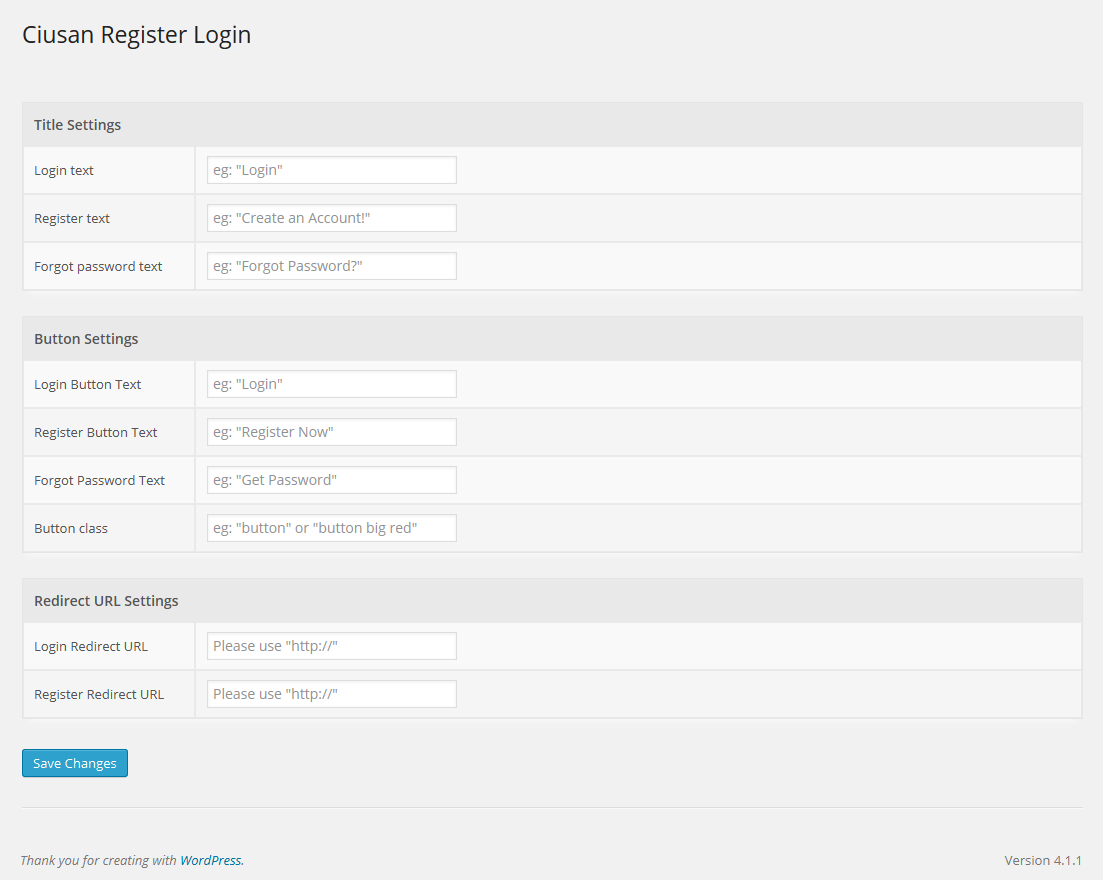
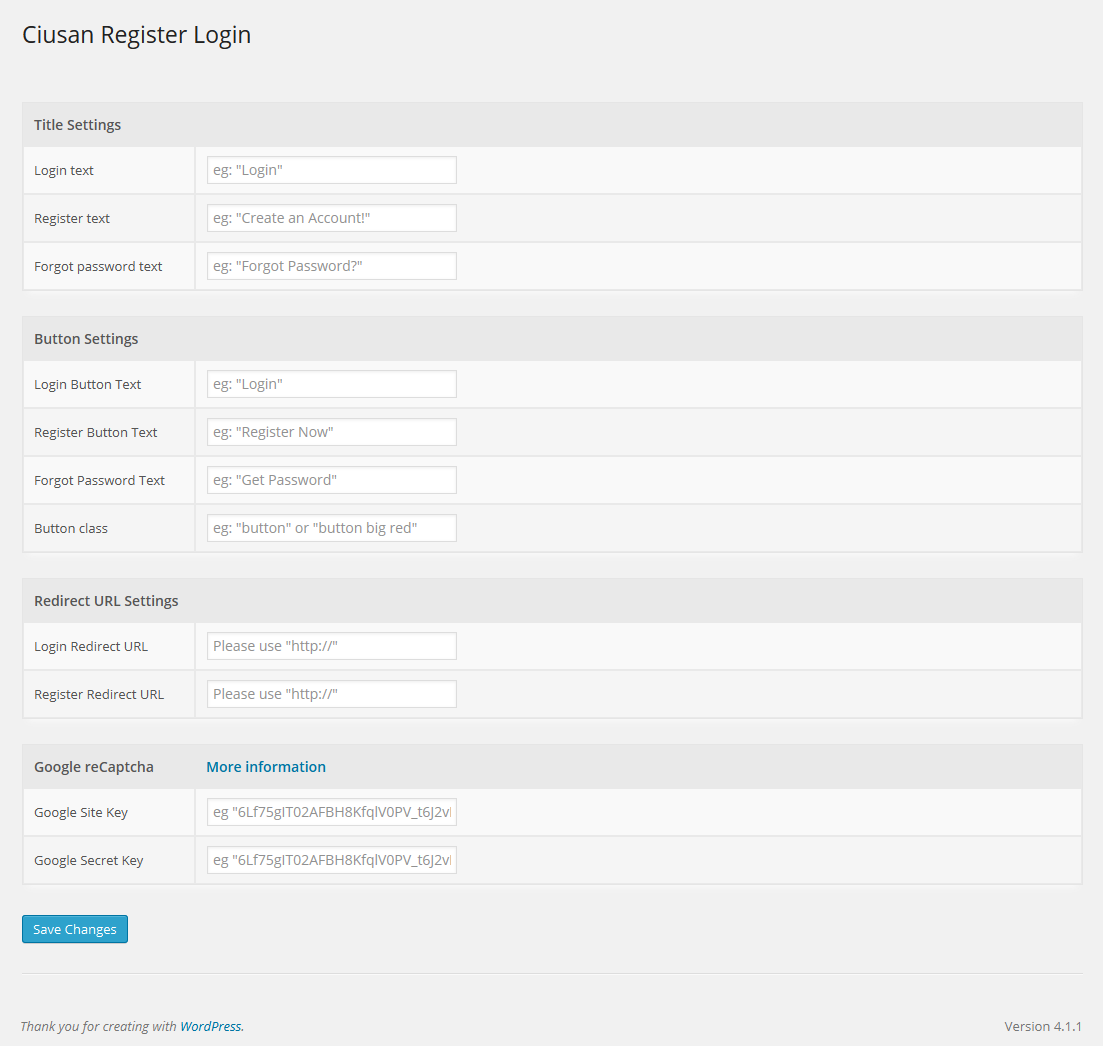
updated
git-svn-id: https://plugins.svn.wordpress.org/ciusan-register-login/trunk@1106388 b8457f37-d9ea-0310-8a92-e5e31aec5664

diff --git a/assets/css/ciusan-register-login.css b/assets/css/ciusan-register-login.css
@@ -1,8 +1,8 @@
-form.ajax-auth{
+form.crl-ajax-auth{
     display:none;
     z-index:999999;
 	position:fixed;
-    top:50px;
+    top:25px;
 	left:50%;
 	width:350px;
 	margin-left:-200px;
@@ -14,41 +14,41 @@ form.ajax-auth{
     color:#878787;
     font-size:11px;
 }
-.ajax-auth h1, .ajax-auth h3, .ajax-auth h5{
+.crl-ajax-auth h1, .crl-ajax-auth h3, .crl-ajax-auth h5{
     font-family:'Georgia', 'Times New Roman', Times, serif;
     font-weight:100;
     color:#333333;    
 	line-height:0;  
 }
-.ajax-auth h1{
+.crl-ajax-auth h1{
     font-size:27px;
     left:15px;
 	margin-top:-10px;
 }
 
-.ajax-auth h3{
+.crl-ajax-auth h3{
     font-size:18px;
     text-align:left;
     margin:0;
 }
-.ajax-auth h5{
+.crl-ajax-auth h5{
     font-size:12px;
     text-align:left;
     margin:0;
 }
-.ajax-auth hr {
+.crl-ajax-auth hr {
     background-color:rgba(0, 0, 0, 0.1);
     border:0 none;
     height:1px;
     margin:20px 0;
 }
-.ajax-auth input#username,
-.ajax-auth input#password,
-.ajax-auth input#signonname,
-.ajax-auth input#email,
-.ajax-auth input#signonpassword,
-.ajax-auth input#password2,
-.ajax-auth input#user_login{
+.crl-ajax-auth input#username,
+.crl-ajax-auth input#password,
+.crl-ajax-auth input#signonname,
+.crl-ajax-auth input#email,
+.crl-ajax-auth input#signonpassword,
+.crl-ajax-auth input#password2,
+.crl-ajax-auth input#user_login{
     border:1px solid #EDEDED;
     border-radius:3px 3px 3px 3px;
     box-shadow:0 0 3px rgba(0, 0, 0, 0.1) inset;
@@ -60,55 +60,58 @@ form.ajax-auth{
     background-color:#F9F9F9;
     font-family:'Georgia', 'Times New Roman', Times, serif;
 }
-.ajax-auth input#username:focus,
-.ajax-auth input#password:focus,
-.ajax-auth input#signonname:focus,
-.ajax-auth input#email:focus,
-.ajax-auth input#signonpassword:focus,
-.ajax-auth input#password2:focus,
-.ajax-auth input#user_login:focus{
+.crl-ajax-auth input#username:focus,
+.crl-ajax-auth input#password:focus,
+.crl-ajax-auth input#signonname:focus,
+.crl-ajax-auth input#email:focus,
+.crl-ajax-auth input#signonpassword:focus,
+.crl-ajax-auth input#password2:focus,
+.crl-ajax-auth input#user_login:focus{
     background-color:#FFF;
 }
-.ajax-auth label.error{
+.crl-ajax-auth label.error{
 	display:none !important;
 }
-.ajax-auth ::-webkit-input-placeholder{
+.crl-ajax-auth ::-webkit-input-placeholder{
 	display:none !important;
 }
-.ajax-auth :-moz-placeholder { /* Firefox 18- */
+.crl-ajax-auth :-moz-placeholder { /* Firefox 18- */
    color:#bbb;  
 }
-.ajax-auth ::-moz-placeholder {  /* Firefox 19+ */
+.crl-ajax-auth ::-moz-placeholder {  /* Firefox 19+ */
    color:#bbb;  
 }
-.ajax-auth :-ms-input-placeholder {  
+.crl-ajax-auth :-ms-input-placeholder {  
    color:#bbb;  
 }
-.ajax-auth input.error{
+.crl-ajax-auth input.error{
 	border:1px solid #FF0000 !important;
 }
-.ajax-auth input.button{
+.crl-ajax-auth input.button{
     float:right;
 }
-.ajax-auth a{
+.crl-ajax-auth a{
     text-decoration:none;
 }
-.ajax-auth a.close{
+.crl-ajax-auth a.close{
     color:#DCDCDC;
     position:absolute;
     right:25px;
     top:25px;
 }
-.ajax-auth a.text-link{
+.crl-ajax-auth a.text-link{
     color:#B4B2B2;
     float:left;
 }
-.ajax-auth p.status{
+.crl-ajax-auth p.status{
     text-align:center;
     margin:-15px 0 20px 0;
 	font-size:xx-small !important;
     display:none;
 	color:#FF0000;
+}
+.crl-ajax-auth span{
+	display:inline-block;
 }
 .login_overlay{
     height:100%;

diff --git a/assets/js/ciusan-register-login.js b/assets/js/ciusan-register-login.js
@@ -54,22 +54,25 @@ jQuery(document).ready(function ($) {
 			action = 'ajaxregister';
 			username = $('#signonname').val();
 			password = $('#signonpassword').val();
-        	email = $('#email').val();
-        	security = $('#signonsecurity').val();	
-		}  
+			email = $('#email').val();
+			security = $('#signonsecurity').val();
+			recaptcha = $('#g-recaptcha-response').val();
+		}
 		ctrl = $(this);
 		$.ajax({
             type: 'POST',
             dataType: 'json',
             url: ajax_auth_object.ajaxurl,
-            data: {
-                'action': action,
-                'username': username,
-                'password': password,
+			data: {
+				'action': action,
+				'username': username,
+				'password': password,
 				'email': email,
-                'security': security
+				'security': security,
+				'recaptcha': recaptcha
             },
             success: function (data) {
+				if(($(ctrl).attr ('id') == 'register') && (data.loggedin == false)) grecaptcha.reset();
 				$('p.status', ctrl).text(data.message);
 				if (data.loggedin == true) {
 					document.location.href = $(ctrl).attr ('id') == 'register' ? ajax_auth_object.register_redirect : ajax_auth_object.redirecturl;

diff --git a/ciusan-register-login.php b/ciusan-register-login.php
@@ -4,7 +4,7 @@ Plugin Name: Ciusan Register Login
 Plugin URI: http://plugin.ciusan.com/134/ciusan-register-login/
 Description: Showing login, register or lost password form modal popup with ajax.
 Author: Dannie Herdyawan
-Version: 1.2
+Version: 2.0
 Author URI: http://www.ciusan.com/
 */
 
@@ -64,6 +64,8 @@ function ciusan_register_login(){
 		$options['button_class']			= trim($_POST['button_class'],'{}');
 		$options['login_redirect_URL']		= trim($_POST['login_redirect_URL'],'{}');
 		$options['register_redirect_URL']	= trim($_POST['register_redirect_URL'],'{}');
+		$options['Google_Site_Key']			= trim($_POST['Google_Site_Key'],'{}');
+		$options['Google_Secret_Key']		= trim($_POST['Google_Secret_Key'],'{}');
 		update_option('ciusan_register_login', $options);
 		// Show a message to say we've done something
 		echo '<div class="updated ciusan-success-messages"><p><strong>'. __("Settings saved.", "Ciusan").'</strong></p></div>';
@@ -78,10 +80,10 @@ wp_register_style('ciusan-register-login', plugin_dir_url( __FILE__ ).'assets/cs
 wp_enqueue_style('ciusan-register-login');
 wp_register_script('validate-script', plugin_dir_url( __FILE__ ).'assets/js/jquery.validate.js', array('jquery'));
     wp_enqueue_script('validate-script');
-
+    wp_register_script('google-recaptcha', 'https://www.google.com/recaptcha/api.js');
+    wp_enqueue_script('google-recaptcha');
     wp_register_script('ciusan-register-login', plugin_dir_url( __FILE__ ).'assets/js/ciusan-register-login.js', array('jquery'));
     wp_enqueue_script('ciusan-register-login');
-
 	    wp_localize_script( 'ajax-auth-script', 'ajax_auth_object', array(
 	        'ajaxurl'			=> admin_url( 'admin-ajax.php' ),
 			'redirecturl'		=> $options['login_redirect_URL'] ? $options['login_redirect_URL'] : home_url(),
@@ -115,10 +117,33 @@ function ajax_login(){
     die();
 }
 
-function ajax_register(){
+function ajax_register(){ global $options; $options = get_option('ciusan_register_login');
 
     // First check the nonce, if it fails the function will break
     check_ajax_referer( 'ajax-register-nonce', 'security' );
+
+	$recaptcha = $_POST['recaptcha'];
+	if(!empty($recaptcha)){
+		$google_url = "https://www.google.com/recaptcha/api/siteverify";
+		$secret = $options['Google_Secret_Key'];
+		$ip = $_SERVER['REMOTE_ADDR'];
+		$url = $google_url."?secret=".$secret."&response=".$recaptcha."&remoteip=".$ip;
+		$curl = curl_init();
+		curl_setopt($curl, CURLOPT_URL, $url);
+		curl_setopt($curl, CURLOPT_RETURNTRANSFER, 1);
+		curl_setopt($curl, CURLOPT_TIMEOUT, 10);
+		curl_setopt($curl, CURLOPT_USERAGENT, "Mozilla/5.0 (Windows; U; Windows NT 6.1; en-US; rv:1.9.2.16) Gecko/20110319 Firefox/3.6.16");
+		$results = curl_exec($curl);
+		curl_close($curl);
+		$res= json_decode($results, true);
+		if(!$res['success']){
+			echo json_encode(array('loggedin'=>false, 'message'=>__('reCAPTCHA invalid')));
+			die();
+		}
+	}else{
+		echo json_encode(array('loggedin'=>false, 'message'=>__('Please enter reCAPTCHA')));
+		die();
+	}
 		
     // Nonce is checked, get the POST data and sign user on
     $info = array();
@@ -247,7 +272,7 @@ function ajax_forgotPassword(){
 }
 
 function ciusan_login_form() {global $options; $options = get_option('ciusan_register_login'); ?>
-<form id="login" class="ajax-auth" action="login" method="post">
+<form id="login" class="crl-ajax-auth" action="login" method="post">
 	<h1><?php if($options['login_title']){echo $options['login_title'];}else{echo'Login';}?></h1>
 	<hr />
 	<p class="status"></p>  
@@ -262,7 +287,7 @@ function ciusan_login_form() {global $options; $options = get_option('ciusan_reg
 	<a class="close" href="">(close)</a>    
 </form>
 
-<form id="register" class="ajax-auth"  action="register" method="post">
+<form id="register" class="crl-ajax-auth"  action="register" method="post">
 	<h1><?php if($options['register_title']){echo $options['register_title'];}else{echo'Create an Account!';}?></h1>
 	<hr />
     <p class="status"></p>
@@ -275,15 +300,16 @@ function ciusan_login_form() {global $options; $options = get_option('ciusan_reg
     <input id="signonpassword" type="password" class="required" name="signonpassword" placeholder="Create secure password">
     <span for="password2">Confirm Password</span>
     <input type="password" id="password2" class="required" name="password2" placeholder="Confirm your secure password">
+	<div class="g-recaptcha" data-sitekey="<?php echo $options['Google_Site_Key']; ?>" style="display:block;"></div><br/>
     <input class="<?php if($options['button_class']){echo $options['button_class'];}else{echo 'button';};?>" type="submit" value="<?php if ($options['button_register']){echo $options['button_register'];}else{echo 'Register';};?>" name="register">
 	<a id="pop_login" class="text-link" style="cursor:pointer">Want to Login?</a>
-    <a class="close" href="">(close)</a>    
+    <a class="close" href="">(close)</a>
 </form>
 
-<form id="forgot_password" class="ajax-auth" action="forgot_password" method="post">
+<form id="forgot_password" class="crl-ajax-auth" action="forgot_password" method="post">
 	<h1><?php if($options['forgot_password_title']){echo $options['forgot_password_title'];}else{echo'forgot password?';}?></h1>
     <hr />
-    <p class="status"></p>  
+    <p class="status"></p>
     <?php wp_nonce_field('ajax-forgot-nonce', 'forgotsecurity'); ?>  
     <span for="user_login">Username or Email</span>
     <input id="user_login" type="text" class="required" name="user_login" placeholder="Insert your username or email">

diff --git a/admin_menu.php b/admin_menu.php
@@ -75,6 +75,26 @@
 			</td>
 		</tr>
 	</tbody>
+</table><table class="ciusan-plugin widefat" style="margin-top:25px;">
+	<thead>
+		<tr>
+			<th scope="col">Google reCaptcha</th>
+			<th scope="col"><a target="_blank" href="https://www.google.com/recaptcha/intro/index.html">More information</a></th>
+		</tr>
+	</thead>
+	<tbody>
+		<tr>
+			<td class="titledesc">Google Site Key</td>
+			<td class="forminp">
+				<input name="Google_Site_Key" id="button_class" style="width:250px;" value="<?php echo $options[Google_Site_Key]; ?>" type="text" class="required" placeholder="eg &quot;6Lf75gIT02AFBH8KfqlV0PV_t6J2vEB-1tbbCDG&quot;">
+			</td>
+		</tr><tr>
+			<td class="titledesc">Google Secret Key</td>
+			<td class="forminp">
+				<input name="Google_Secret_Key" id="button_class" style="width:250px;" value="<?php echo $options[Google_Secret_Key]; ?>" type="text" class="required" placeholder="eg &quot;6Lf75gIT02AFBH8KfqlV0PV_t6J2vEB-1tbbCDG&quot;">
+			</td>
+		</tr>
+	</tbody>
 </table>
 <input type="hidden" name="action" value="update" />
 <input type="hidden" name="page_options" value="<?php get_option($options) ?>" />
